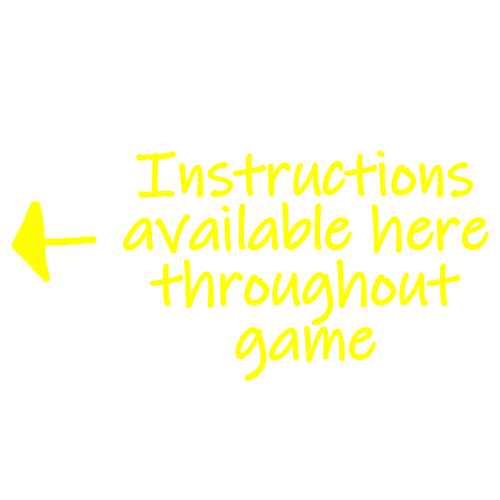
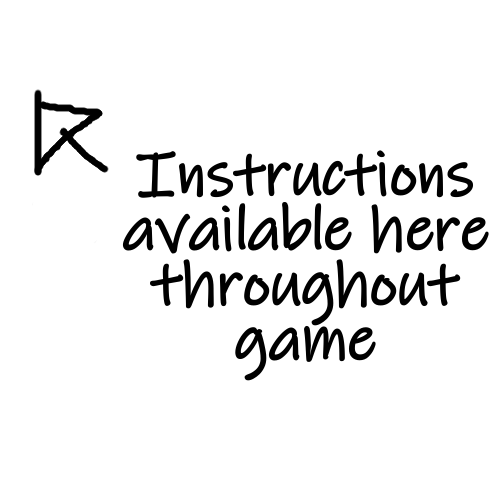
added level instruction, fixed end point resizing on non comic levels

diff --git a/graphics/environmentMain.js b/graphics/environmentMain.js
@@ -114,7 +114,8 @@ function setup(linesArray, backgroundPath) {
 	//ALSO UNCOMMENTED THIS FOR THE MOMENT- IN CASE I FORGET TO REVERT IT BEFORE PUSHING
 	// creates the yarn trail
 	//player.yarnTrail = new YarnTrail(yarnCoords, game.xOffset);
-
+	setLevel();
+	console.log("called");
 	main();
 } // end of setup
 
@@ -137,7 +138,14 @@ function hideComic()
 	{
 		let els = document.getElementsByClassName("comic");
 		Array.prototype.forEach.call(els, function(el){el.classList.add("hidden")});
+
+		//shows the instructions to find instructions if it's level one
+		if(game.level == 1)
+		{
+			document.getElementById("instructionLabel").classList.remove("hidden");
+		}
 		main();
+
 	}
 } // end of hideComic
 
@@ -1279,7 +1287,13 @@ function resize() {
 	const lassoEnd = [(player.lasso.end.shape.x - player.shape.x)/player.shape.radius, player.lasso.end.shape.y/game.canvas.height];
 	const lassoForce = [(player.lasso.forceX - player.shape.x)/player.shape.radius, player.lasso.forceY/game.canvas.height];
 
-	const endPoint = game.levelEndPoint / game.canvas.height;
+	// resizes the x of the end point (endPoint is x but its in too many places to change it now)
+	const endPoint = game.levelEndPoint / game.background.width;
+	console.log(endPoint);
+	console.log(game.background.width);
+	console.log(game.levelEndPoint);
+	console.log(" ");
+	//const endY = game.levelEndY / game.canvas.height;
 
 	// resize the canvas to fill the whole window
 	resizeCanvas();
@@ -1338,7 +1352,12 @@ function resize() {
 	player.lasso.forceX = (lassoForce[0] * player.shape.radius) + player.shape.x;
 	player.lasso.forceY = lassoForce[1] * game.canvas.height;
 
-	game.levelEndPoint =  endPoint * game.canvas.height;
+	// corrects endpoints
+	game.levelEndPoint =  endPoint * game.background.width;
+	game.levelEndY *= (window.innerHeight-10);
+	console.log(game.levelEndPoint);
+	console.log(" ");
+	
 } // end of resize
 
 
@@ -1522,9 +1541,10 @@ function levelUp()
 } // end of levelUp
 
 //sets the level data upon startup of script
-setTimeout(() => {
-	setLevel();
-}, 100);
+// setTimeout(() => {
+// 	setLevel();
+// 	console.log("called");
+// }, 100);
 
 
 //draws a circle around the point where hank needs to reach to level up

diff --git a/levels/level1.html b/levels/level1.html
@@ -49,7 +49,8 @@
 	{
 		game.level = 1;
 		game.levelEndPoint = -2570;
-        game.levelEndY = 600;
+        //value is a fraction of the screen height
+        game.levelEndY = 0.95;
 	}
 
 </script>
@@ -81,6 +82,8 @@
             <button class="pauseAndPlay settingsBtn level hiddenBtns hidden"  onClick="window.location.assign('../nonLevelPages/mainmenu.html')"><img draggable="false" src="../Art/homeBtn.png" alt="Home" class="settingsImg"></button>
             <button class="pauseAndPlay settingsBtn level hiddenBtns hidden"  onclick="toggleDiv('settings', 'instructions');"><img draggable="false" src="../Art/settingsBtn.png" alt="Settings" class="settingsImg"></button>
 
+        <!-- shows label on the screen that indicates how to find instructions -->
+            <div class="hidden" id="instructionLabel"><img style="width:100%; height:100%;" src="../Art/instructions/instructionsInstruction.png" alt="Instructions are available here throughout game."></div>
     </div>
 
     <!-- overlays screen when game is paused to dim it out -->

diff --git a/levels/level4.html b/levels/level4.html
@@ -64,10 +64,8 @@
 	function setLevel()
 	{
 		game.level = 4;
-		//also need ot make this realistic but idk what it is rn and gtg
 		game.levelEndPoint = -3150;
-        game.levelEndY = 250;
-        console.log('level4');
+        game.levelEndY = 0.4;
 	}
 
 </script>

diff --git a/levels/level2.html b/levels/level2.html
@@ -71,9 +71,8 @@
 	function setLevel()
 	{
 		game.level = 2;
-		//need to make this realistic point (value of xoffset where hank hits the end of the level)
 		game.levelEndPoint = -2750;
-		game.levelEndY = 230;
+		game.levelEndY = 0.36;
 	}
 </script>
 

diff --git a/levels/level3.html b/levels/level3.html
@@ -64,9 +64,9 @@
 	function setLevel()
 	{
 		game.level = 3;
-		//also need ot make this realistic but idk what it is rn and gtg
 		game.levelEndPoint = -2900;
-        game.levelEndY = 250;
+        game.levelEndY = 0.4;
+        
 	}
 
 </script>

diff --git a/levels/comicLevel.css b/levels/comicLevel.css
@@ -65,3 +65,14 @@ canvas {
 	bottom:2vh;
 	/* left:40vw; */
 }
+
+
+/* ruleset for instruction label */
+#instructionLabel{
+	width:20vw;
+	height:20vw;
+	position:fixed;
+	padding:0;
+	margin-left:15vw;
+	top:13vh;
+}

diff --git a/levels/level5.html b/levels/level5.html
@@ -60,7 +60,7 @@
 	{
 		game.level = 5;
 		game.levelEndPoint = -2700;
-        game.levelEndY = 600;
+        game.levelEndY = 0.95;
 	}
 
 </script>
